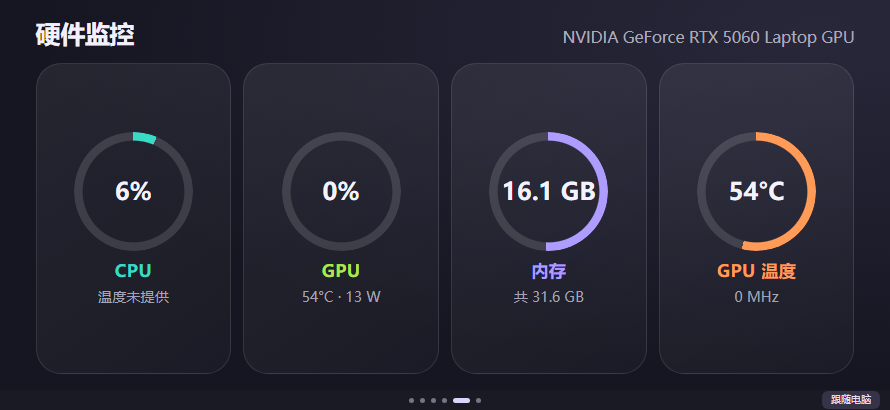
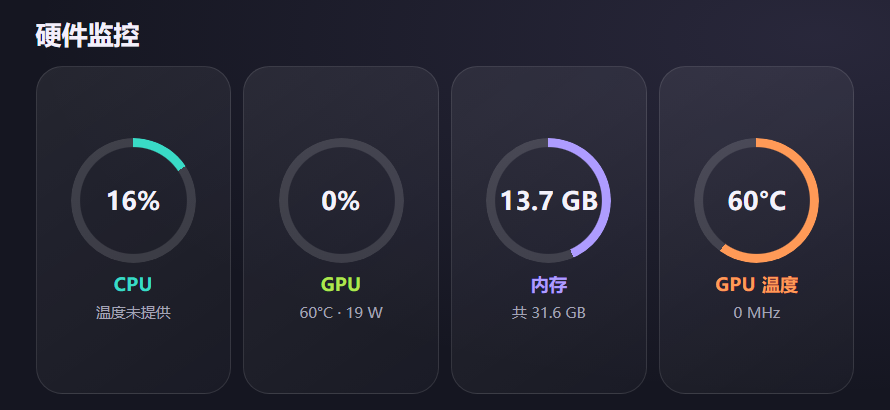
Simplify hardware and shortcut widgets with visual keycaps

diff --git a/wwwroot/shared/widgets.js b/wwwroot/shared/widgets.js
@@ -77,16 +77,11 @@ window.deskWidgets = (() => {
 
   function make(widget, press, mediaControl) {
     if (widget.type === 'music') return makeMusic(widget, mediaControl);
+    if (widget.type === 'shortcut') return makeShortcut(widget, press);
     const metric = widget.type === 'metric' ? widget.metric :
       widget.type === 'custom' ? widget.manifest?.gauge : null;
-    const isButton = widget.type === 'shortcut';
-    const tile = node(isButton ? 'button' : 'article', 'widget widget-' + widget.size);
+    const tile = node('article', 'widget widget-' + widget.size);
     tile.style.setProperty('--widget-accent', widget.color);
-    if (isButton) {
-      tile.type = 'button';
-      tile.disabled = !press;
-      if (press) tile.addEventListener('click', () => press(widget, tile));
-    }
     const label = node('span', 'widget-label', widget.name);
     const value = node('span', 'widget-value');
     const detail = node('span', 'widget-detail');
@@ -116,10 +111,6 @@ window.deskWidgets = (() => {
         case 'text':
           main = widget.text;
           break;
-        case 'shortcut':
-          main = widget.keys;
-          sub = '发送到 Windows';
-          break;
         case 'custom':
           main = formatTemplate(widget.manifest.template, context);
           sub = widget.manifest.detail ? formatTemplate(widget.manifest.detail, context) : '';
@@ -135,6 +126,24 @@ window.deskWidgets = (() => {
       }
     }
     return { element: tile, update };
+  }
+
+  function makeShortcut(widget, press) {
+    const tile = node('button', 'widget widget-' + widget.size + ' widget-shortcut');
+    tile.style.setProperty('--widget-accent', widget.color);
+    tile.type = 'button';
+    tile.disabled = !press;
+    tile.setAttribute('aria-label', [widget.name, widget.keys].filter(Boolean).join(' · '));
+    if (press) tile.addEventListener('click', () => press(widget, tile));
+    const chord = node('span', 'widget-keycaps');
+    chord.setAttribute('aria-hidden', 'true');
+    const keys = (widget.keys ?? '').split('+').map(key => key.trim()).filter(Boolean);
+    chord.append(...keys.flatMap((key, index) => {
+      const cap = node('kbd', '', key);
+      return index ? [node('span', 'widget-key-join', '+'), cap] : [cap];
+    }));
+    tile.append(chord, node('span', 'widget-label', widget.name));
+    return { element: tile, update() {} };
   }
 
   function makeMusic(widget, control) {

diff --git a/wwwroot/display/pages.css b/wwwroot/display/pages.css
@@ -7,11 +7,9 @@
   background: radial-gradient(ellipse at 92% 9%, #b2a0ee20, transparent 68%), var(--dashboard-background);
   font-size: clamp(11px, min(2.6cqw, 5.6cqh), 28px);
 }
-.dashboard header { display: flex; align-items: baseline; gap: 1em; justify-content: space-between; }
 .dashboard h1, .dashboard p { margin: 0; }
 .dashboard h1 { color: #f3effb; font-size: 1.13em; }
-#dashboard-device, #dashboard-empty { color: #ababba; font-size: .72em; }
-#dashboard-device { text-align: end; }
+#dashboard-empty { color: #ababba; font-size: .72em; }
 #dashboard-widgets { flex: 1; min-height: 0; grid-auto-rows: minmax(7.5em, 1fr); overflow: auto; }
 #dashboard-widgets:has(.widget-v2, .widget-music), #page-widgets:has(.widget-v2, .widget-music) { grid-auto-rows: max-content; }
 #dashboard-widgets, #page-widgets { touch-action: pan-y; }

diff --git a/wwwroot/display/pages.js b/wwwroot/display/pages.js
@@ -6,7 +6,6 @@ const phonePages = (() => {
   const grid = document.getElementById('dashboard-widgets');
   const strip = document.getElementById('page-widgets');
   const heading = document.getElementById('dashboard-name');
-  const device = document.getElementById('dashboard-device');
   const empty = document.getElementById('dashboard-empty');
   const footer = document.getElementById('page-footer');
   const indicator = document.getElementById('page-indicator');
@@ -113,8 +112,6 @@ const phonePages = (() => {
   function updateTiles() {
     const now = new Date();
     for (const tile of tiles) tile.update({ now, state, hardware, data });
-    const name = mounted?.kind === 'hardware' ? hardware?.gpuName ?? '' : '';
-    if (device.textContent !== name) device.textContent = name;
   }
 
   function navigate(delta) {

diff --git a/wwwroot/shared/widgets.css b/wwwroot/shared/widgets.css
@@ -71,6 +71,26 @@
 button.widget:not(:disabled) { cursor: pointer; }
 button.widget:not(:disabled):active { border-color: var(--widget-accent); background: #ffffff19; }
 button.widget:disabled { opacity: .52; }
+.widget-shortcut { gap: .42em; }
+.widget-keycaps {
+  display: flex;
+  flex-wrap: wrap;
+  align-items: center;
+  justify-content: center;
+  gap: .22em;
+  max-width: 100%;
+}
+.widget-keycaps kbd {
+  padding: .22em .42em;
+  border: 1px solid #ffffff30;
+  border-radius: .36em;
+  box-shadow: 0 .12em 0 #09091060;
+  background: #ffffff12;
+  color: inherit;
+  font: 650 .83em/1.12 system-ui, sans-serif;
+  overflow-wrap: anywhere;
+}
+.widget-key-join { color: #bcb9c9; font-size: .68em; }
 .widget-grid {
   display: grid;
   grid-template-columns: repeat(4, minmax(0, 1fr));

diff --git a/wwwroot/display/index.html b/wwwroot/display/index.html
@@ -47,10 +47,7 @@
       <img id="wallpaper" alt="自选图片" hidden>
     </section>
     <section class="screen dashboard" id="dashboard" aria-labelledby="dashboard-name" hidden>
-      <header>
-        <h1 id="dashboard-name"></h1>
-        <p id="dashboard-device"></p>
-      </header>
+      <h1 id="dashboard-name"></h1>
       <div id="dashboard-widgets" class="widget-grid"></div>
       <p id="dashboard-empty" hidden>可在 Windows 控制面板添加组件</p>
     </section>
